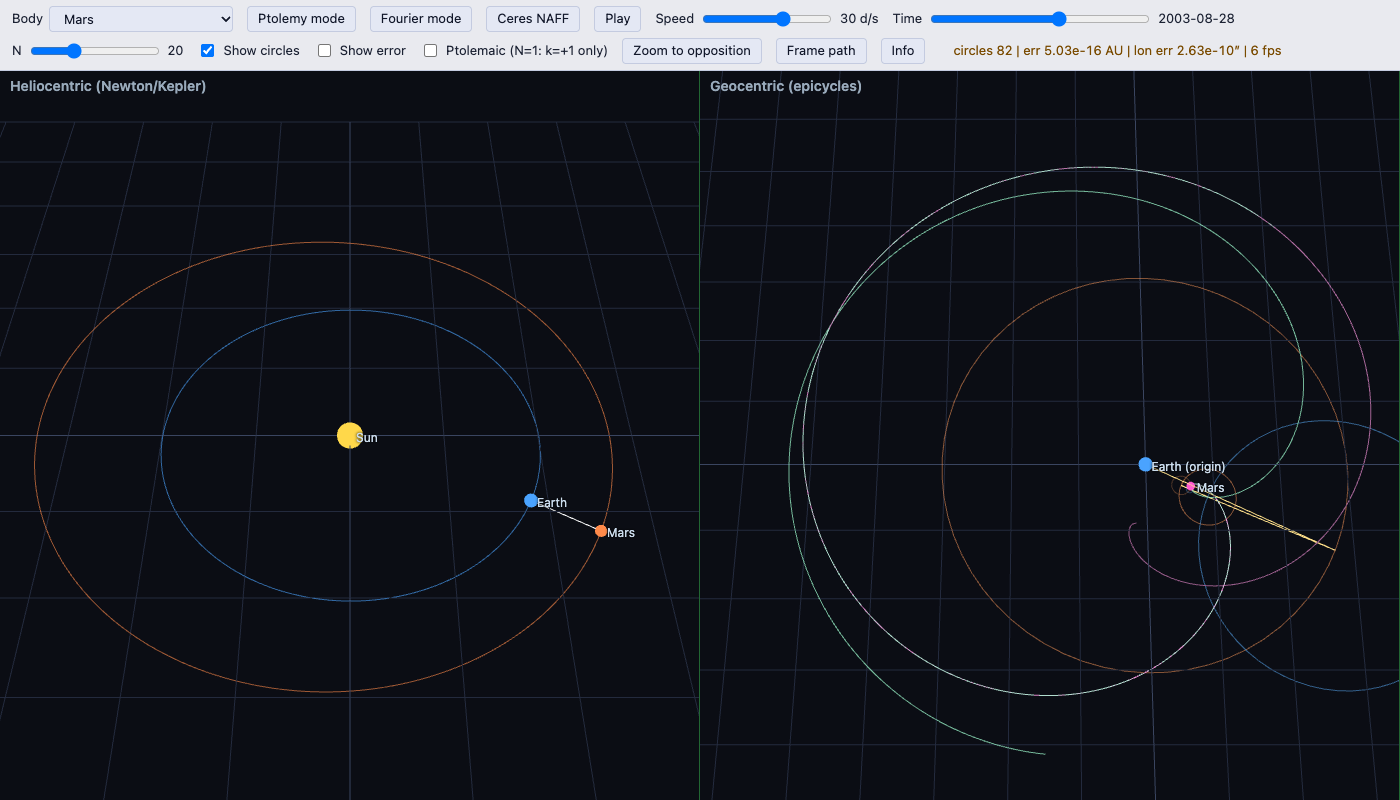
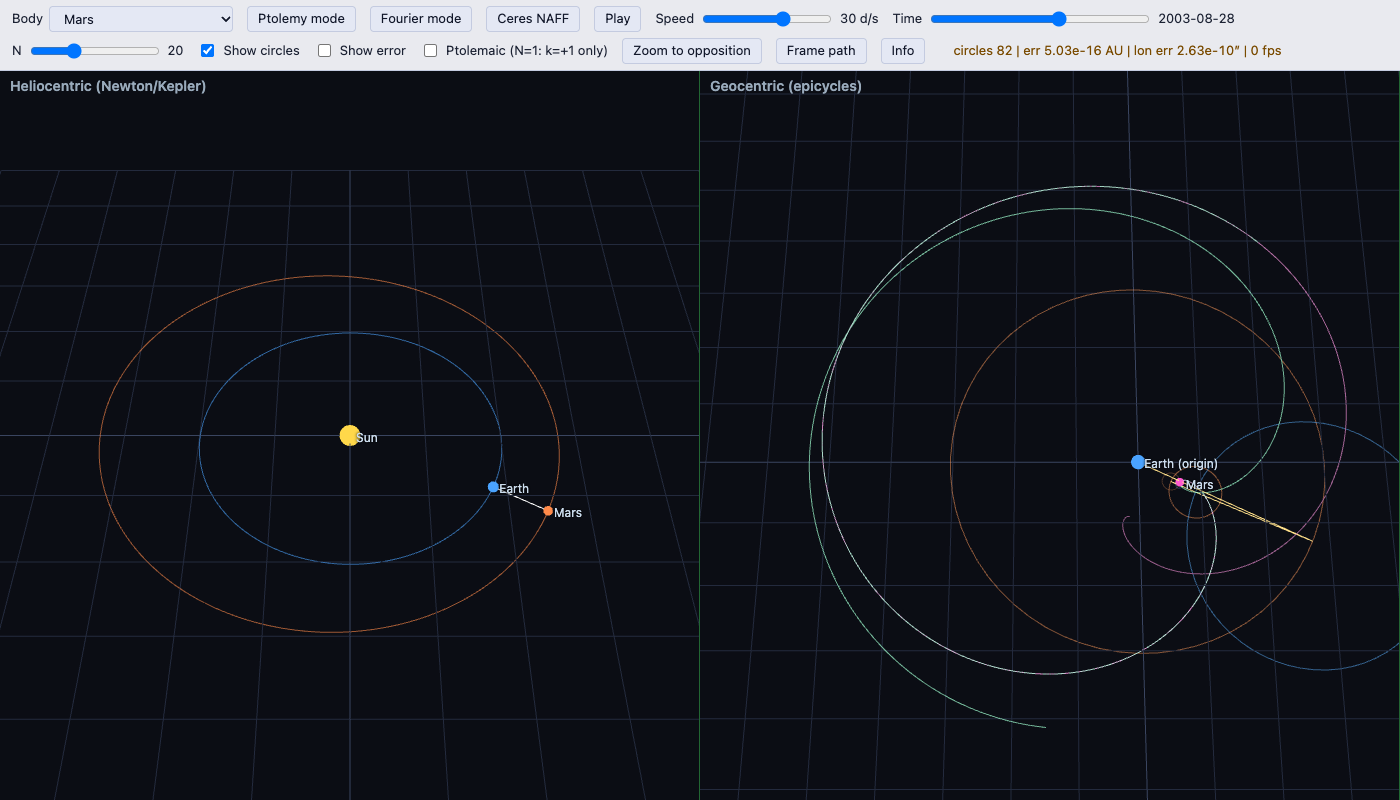
epicycles-3im.15: legible SPA screenshot and retrograde figure; SPA framing and panel text fixes
Claude-Session: https://claude.ai/code/session_01Kdqk6BiVximtW9dphTFUua

diff --git a/web/test/sim.test.ts b/web/test/sim.test.ts
@@ -2,7 +2,7 @@ import { describe, expect, it } from "vitest";
 import { Clock } from "../src/sim/clock";
 import { AppState } from "../src/sim/state";
 import { RingTrail } from "../src/sim/trail";
-import { chainArmsInto, chainTipInto, circleMatrix, computeError, jdToDate, ErrorReadout } from "../src/sim/geometry";
+import { chainArmsInto, chainTipInto, circleMatrix, computeError, fitDistance, jdToDate, ErrorReadout } from "../src/sim/geometry";
 import { EARTH, MARS, J2000 } from "../src/math/bodies";
 import { chainArms, evaluateChain, geocentricChain } from "../src/math/expansion";
 import { position } from "../src/math/kepler";
@@ -108,5 +108,20 @@ describe("RingTrail", () => {
     expect(tr.copyOrdered(out)).toBe(3);
     expect([out[0], out[3], out[6]]).toEqual([3, 4, 5]);
     tr.clear(); expect(tr.count).toBe(0);
+  });
+});
+
+describe("fitDistance", () => {
+  it("keeps a wide box inside a narrow viewport, with margin", () => {
+    const fov = 40, hw = 2, hh = 2.3, aspect = 0.72;
+    const d = fitDistance(hw, hh, fov, aspect);
+    const tanH = Math.tan((fov * Math.PI) / 360);
+    expect(d * tanH * aspect).toBeGreaterThanOrEqual(1.25 * hw);
+    expect(d * tanH).toBeGreaterThanOrEqual(1.25 * hh);
+  });
+  it("is height-limited in a wide viewport and clamps tiny aspects", () => {
+    const tanH = Math.tan((40 * Math.PI) / 360);
+    expect(fitDistance(1, 1, 40, 3)).toBeCloseTo(1.3 / tanH, 9);
+    expect(fitDistance(1, 1, 40, 0)).toBeCloseTo(1.3 / (tanH * 0.2), 9);
   });
 });

diff --git a/web/src/ui/info.ts b/web/src/ui/info.ts
@@ -36,7 +36,7 @@ export function buildInfo(root: HTMLElement): InfoPanel {
     "Seen from Earth, a body sits at the vector difference of two heliocentric Kepler orbits. The right view draws exactly this path (green) and the epicycle chain that reproduces it.",
     FORMULAS.geo);
   section(root, "Fourier series = epicycles",
-    "A Kepler orbit is periodic in the mean anomaly M, so z = x + iy has a Fourier series. Each term is a circle of radius a|c_k| turning at k times the mean motion, riding on the previous one. Truncating at |k| <= N gives the N-epicycle model; N=1 is Ptolemy's deferent plus epicycle.",
+    "A Kepler orbit is periodic in the mean anomaly M, so z = x + iy has a Fourier series. Each term is a circle of radius a|c_k| turning at k times the mean motion, riding on the previous one. Truncating at |k| <= N gives the N-epicycle model; N=1 is a 6-circle chain; Ptolemy's model is the 2-circle k=+1 subset (the Ptolemaic checkbox).",
     FORMULAS.fourier);
   section(root, "Bessel coefficients",
     "The coefficients are closed-form in Bessel functions of the first kind, so no numerical fitting is needed. Their decay is set by the eccentricity e: Mars (e = 0.09) needs a few circles, Phaethon (e = 0.89) needs hundreds.",

diff --git a/web/src/view/geocentric.ts b/web/src/view/geocentric.ts
@@ -2,7 +2,7 @@ import * as THREE from "three";
 import { OrbitControls } from "three/examples/jsm/controls/OrbitControls.js";
 import { Elements, position } from "../math/kepler";
 import type { Epicycle } from "../math/expansion";
-import { chainArmsInto, chainTipInto, circleMatrix } from "../sim/geometry";
+import { chainArmsInto, chainTipInto, circleMatrix, fitDistance } from "../sim/geometry";
 import { RingTrail } from "../sim/trail";
 import { Label, makeGrid } from "./labels";
 
@@ -187,8 +187,7 @@ export class GeoView {
   private frameBox(min: ArrayLike<number>, max: ArrayLike<number>): void {
     const cx = (min[0]! + max[0]!) / 2, cy = (min[1]! + max[1]!) / 2, cz = (min[2]! + max[2]!) / 2;
     const hw = Math.max(0.02, (max[0]! - min[0]!) / 2), hh = Math.max(0.02, (max[1]! - min[1]!) / 2);
-    const tanH = Math.tan((this.camera.fov * Math.PI) / 360);
-    const dist = 1.2 * Math.max(hh / tanH, hw / (tanH * Math.max(0.2, this.aspect)));
+    const dist = fitDistance(hw, hh, this.camera.fov, this.aspect);
     const d = new THREE.Vector3(0, -0.3, 0.954);
     this.controls.target.set(cx, cy, cz);
     this.camera.position.set(cx + d.x * dist, cy + d.y * dist, cz + d.z * dist);

diff --git a/web/src/main.ts b/web/src/main.ts
@@ -63,6 +63,11 @@ async function main(): Promise<void> {
   let naffFull: Epicycle[] = [];
   let ptolemaic = false;
   let pendingFrame: "ref" | "opp" | null = "ref";
+  // Re-run the last automatic framing when the geocentric viewport is resized (e.g. the info panel
+  // finishes laying out) unless the user has since moved the camera.
+  let lastFrame: "ref" | "opp" = "ref", userMoved = false;
+  geo.controls.addEventListener("start", () => { userMoved = true; });
+  new ResizeObserver(() => { if (!userMoved && pendingFrame === null) pendingFrame = lastFrame; }).observe(vR);
   let fourierStart: number | null = null;
   let warnTimer = 0;
   const flash = (msg: string): void => { warn.textContent = msg; clearTimeout(warnTimer); warnTimer = window.setTimeout(updateWarn, 4000); };
@@ -221,6 +226,7 @@ async function main(): Promise<void> {
     if (pendingFrame !== null) {
       if (pendingFrame === "opp") { if (!geo.zoomToOpposition(t)) flash("No retrograde loop within +-800 days; framing the whole path."); }
       else geo.frameReference(t);
+      lastFrame = pendingFrame; userMoved = false;
       pendingFrame = null;
     }
     computeError(tip, truth, err);

diff --git a/web/src/sim/geometry.ts b/web/src/sim/geometry.ts
@@ -74,3 +74,13 @@ export function jdToDate(jd: number): string {
   const d = new Date(ms);
   return Number.isNaN(d.getTime()) ? "n/a" : d.toISOString().slice(0, 10);
 }
+
+/**
+ * Camera distance at which a box of half-extents (hw, hh) [AU] fits a viewport of the given aspect
+ * (width/height) for a vertical field of view `fovDeg`, with a 1.3x margin that also covers the
+ * perspective widening of the near edge under the slight camera tilt. Aspect is clamped to >= 0.2.
+ */
+export function fitDistance(hw: number, hh: number, fovDeg: number, aspect: number): number {
+  const tanH = Math.tan((fovDeg * Math.PI) / 360);
+  return 1.3 * Math.max(hh / tanH, hw / (tanH * Math.max(0.2, aspect)));
+}

diff --git a/experiments/make_figures.py b/experiments/make_figures.py
@@ -155,7 +155,10 @@ def fig_mars_retrograde() -> dict:
     styles = {"true (Kepler)": dict(color="k", lw=1.6),
               "Ptolemaic ($k=1$ deferent + epicycle)": dict(color=OI["verm"], lw=1.0, ls="--"),
               "$N=5$": dict(color=OI["sky"], lw=1.0)}
-    fig, (a1, a2) = plt.subplots(2, 1, figsize=(W1, 4.6), height_ratios=[1.2, 1])
+    saved_rc = dict(plt.rcParams)
+    plt.rcParams.update({"font.size": 8.5, "axes.labelsize": 8.5, "legend.fontsize": 7.5,
+                         "xtick.labelsize": 8, "ytick.labelsize": 8})
+    fig, (a1, a2) = plt.subplots(2, 1, figsize=(W1, 4.8), height_ratios=[1.2, 1])
     for k, (lon, lat) in ll.items():
         x = np.degrees(lon)
         brk = np.where(np.abs(np.diff(x)) > 180)[0] + 1
@@ -177,6 +180,8 @@ def fig_mars_retrograde() -> dict:
     a2.set_ylabel("longitude minus mean motion [deg]")
     fig.tight_layout()
     save(fig, "fig_mars_retrograde.pdf")
+    plt.rcParams.update({k: saved_rc[k] for k in ("font.size", "axes.labelsize", "legend.fontsize",
+                                                  "xtick.labelsize", "ytick.labelsize")})
     e_pt = _angdiff_deg(ll["Ptolemaic ($k=1$ deferent + epicycle)"][0], ll["true (Kepler)"][0])
     e_5 = _angdiff_deg(ll["$N=5$"][0], ll["true (Kepler)"][0])
     return {"planar_60yr": planar_stats, "window_ptol_max_deg": float(e_pt.max()),

diff --git a/paper/sections/visualization.tex b/paper/sections/visualization.tex
@@ -1,15 +1,18 @@
 \section{Visualization}
 \label{sec:viz}
 
-\begin{figure}[H]
-\includegraphics[width=\columnwidth]{fig_spa_screenshot.png}
-\caption{Screenshot of the interactive viewer (Mars, Julian date 2452960,
-$N=1$). Left: heliocentric Newtonian view. Right: geocentric view with the
-epicycle chain (yellow arm), its circles and the trail of the chain tip;
-the readout (top right) shows the circle count and the error against exact
-Kepler motion.}
+\begin{figure*}[t]
+\includegraphics[width=\textwidth]{fig_spa_screenshot.png}
+\caption{Screenshot of the interactive viewer (URL parameters
+\texttt{preset=ptolemy\&t=2452960\&N=1\&info=0}: Mars, Julian date 2452960,
+Ptolemaic $k=+1$ subset only, error shown). Left: heliocentric Newtonian view.
+Right: geocentric view with the epicycle chain (yellow arm), its two circles,
+the trail of the chain tip, the exact geocentric path (green) and the error
+vector (red) between the chain tip and true Mars. The readout (top) shows the
+circle count and the error against exact Kepler motion (here $0.244$~AU,
+$7.14^\circ$ in longitude).}
 \label{fig:spa}
-\end{figure}
+\end{figure*}
 
 To make the construction tangible we provide an open-source interactive
 viewer, a single-page web application (TypeScript and three.js) in the

diff --git a/paper/sections/results.tex b/paper/sections/results.tex
@@ -100,7 +100,7 @@ G & $|k|\le10$, both & $<10^{-4}$ & $<10^{-4}$\\
 \end{table}
 
 \begin{figure}[H]
-\includegraphics[width=0.7\columnwidth]{fig_mars_retrograde.pdf}
+\includegraphics[width=\columnwidth]{fig_mars_retrograde.pdf}
 \caption{Geocentric Mars over 2.75 years from 2020-05-31 (two oppositions).
 Top: sky track in ecliptic longitude and latitude. Bottom: unwrapped longitude
 minus its mean motion ($0.524^\circ$/day); grey bands mark retrograde motion

diff --git a/paper/main.tex b/paper/main.tex
@@ -1,4 +1,4 @@
-\documentclass[aps,pra,reprint,amsmath,amssymb,floatfix,superscriptaddress,nofootinbib]{revtex4-2}
+\documentclass[aps,pra,reprint,amsmath,amssymb,superscriptaddress,nofootinbib]{revtex4-2}
 \usepackage{graphicx}
 \usepackage{float}
 \usepackage{bm}
